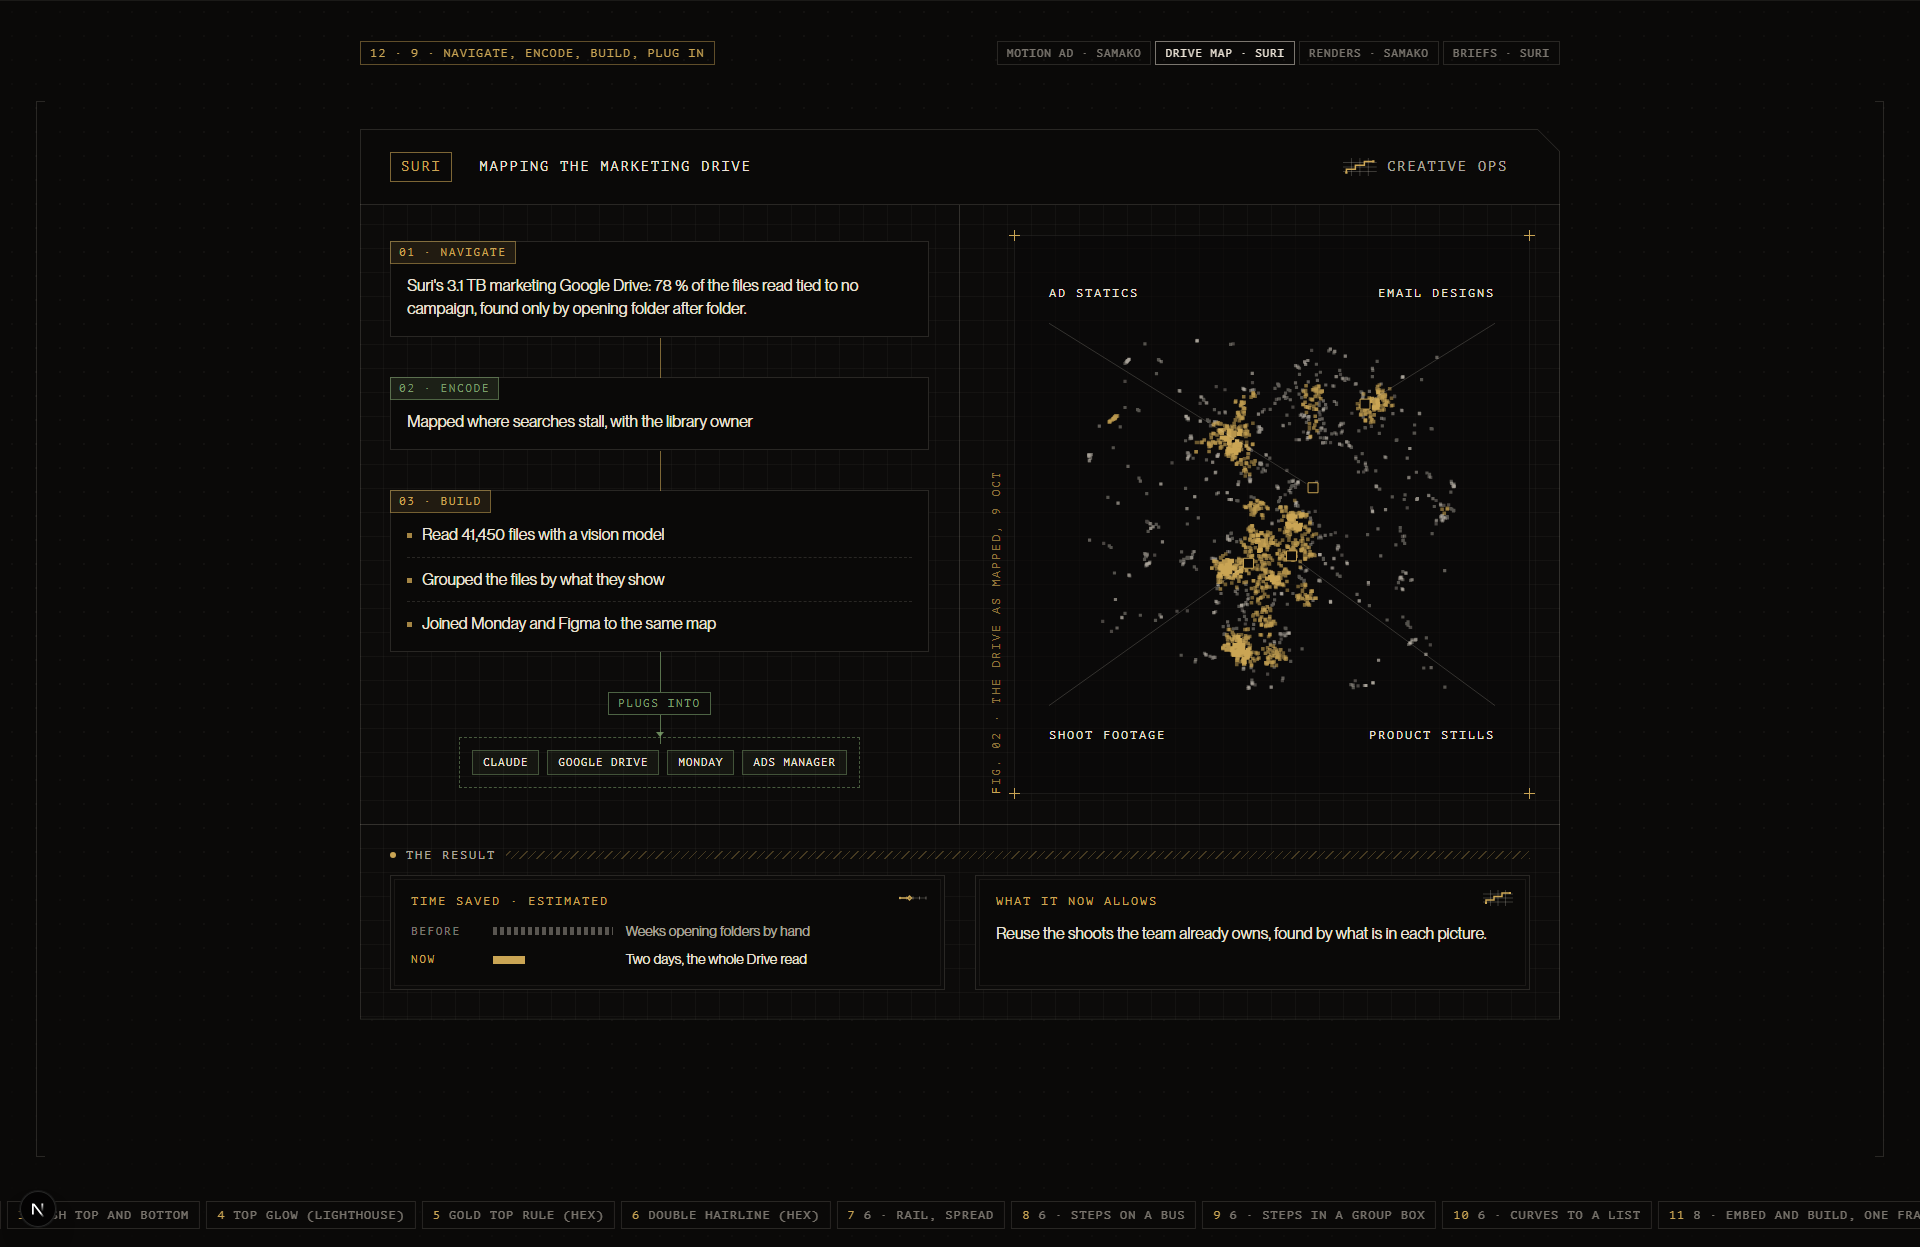
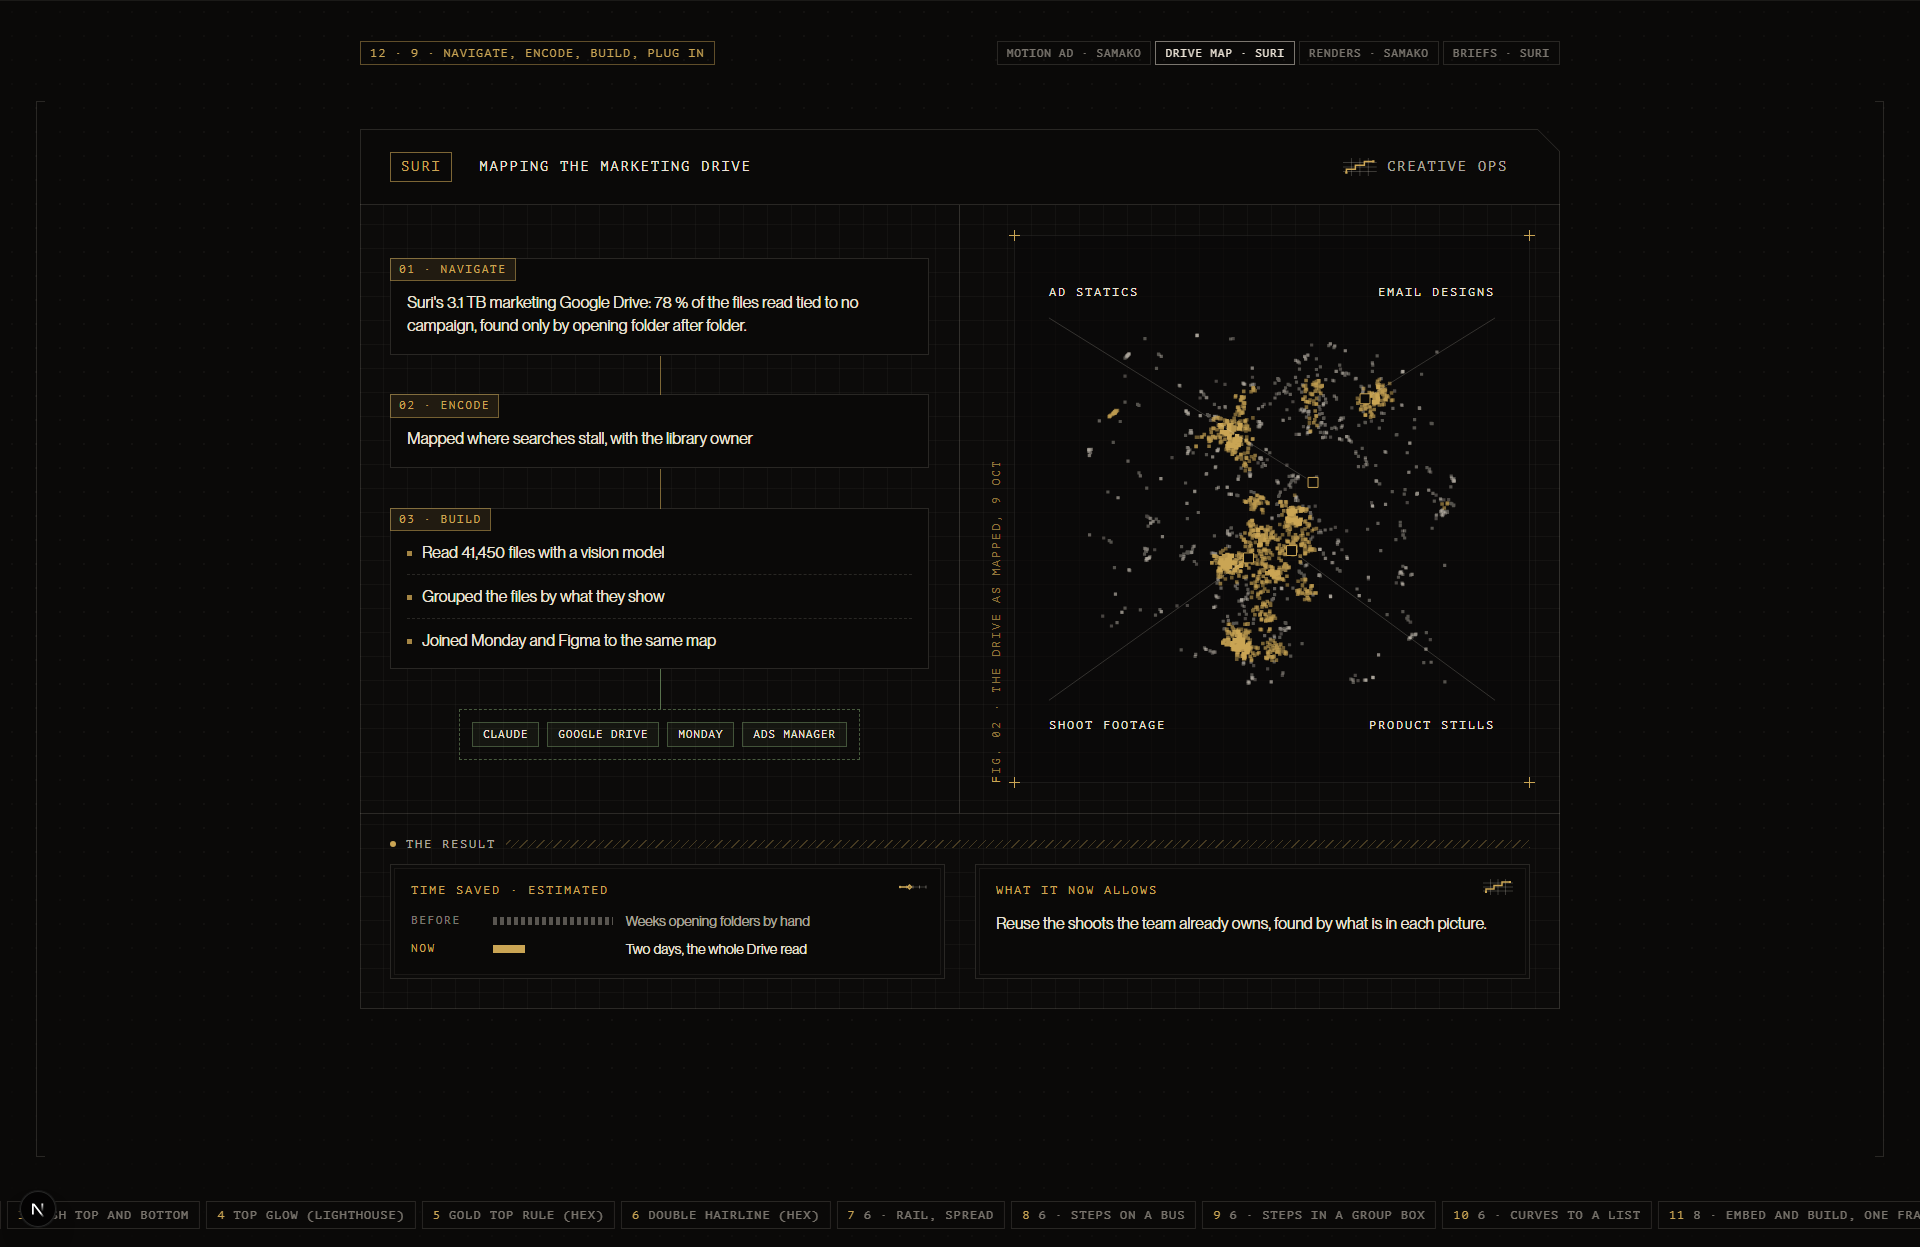
feat(test): card-skins 12, no label or arrow on the tools, Encode in gold

diff --git a/app/(internal)/test/card-skins/LeftPanels.tsx b/app/(internal)/test/card-skins/LeftPanels.tsx
@@ -248,7 +248,7 @@ function ArcFlow({ job, tools }: { job: Job; tools: readonly string[] }) {
         <p className="pk-c__tab pk-l__arc-tab">01 · Navigate</p>
         <p className="pk-body">{job.ask}</p>
       </div>
-      <div className="pk-c__box pk-l__arc-box" data-kind="team">
+      <div className="pk-c__box pk-l__arc-box">
         <p className="pk-c__tab pk-l__arc-tab">02 · Encode</p>
         <p className="pk-body">{job.embed}</p>
       </div>
@@ -261,7 +261,6 @@ function ArcFlow({ job, tools }: { job: Job; tools: readonly string[] }) {
         </ol>
       </div>
       <div className="pk-l__plugwrap">
-        <span className="pk-l__plug-label">Plugs into</span>
         <ul className="pk-l__dash" aria-label="Plugs into">
           {tools.map((t) => (
             <li key={t}>{t}</li>

diff --git a/app/(internal)/test/card-skins/left-panels.css b/app/(internal)/test/card-skins/left-panels.css
@@ -570,3 +570,16 @@
   text-transform: uppercase;
   color: var(--pk-ink);
 }
+
+/* U2 (owner, 2026-10-12): no label and no arrow; the line meets the dashed
+   group's top edge; Encode takes the same gold tab as the others */
+.pk-l__dash {
+  margin-top: 0;
+}
+.pk-l__dash::before {
+  display: none;
+}
+.pk-l__plugwrap::before {
+  height: var(--pk-gap-v);
+  max-height: none;
+}
